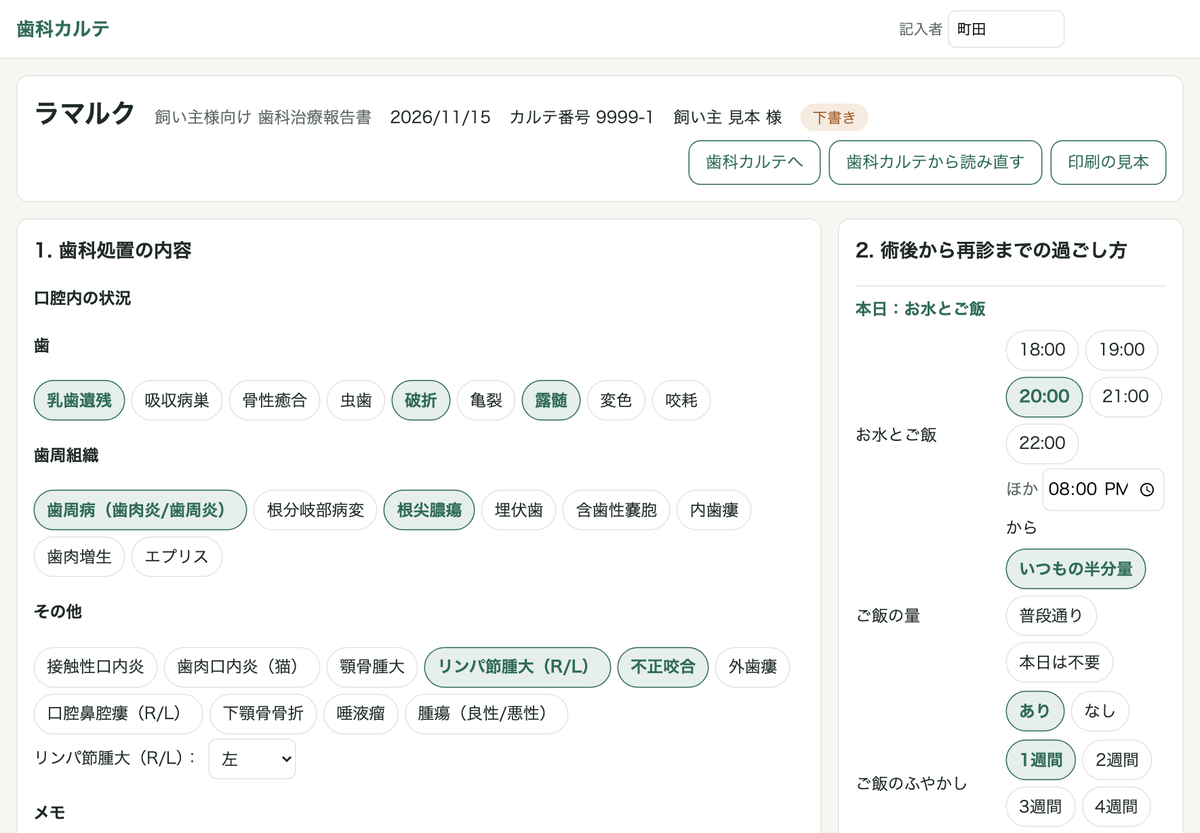
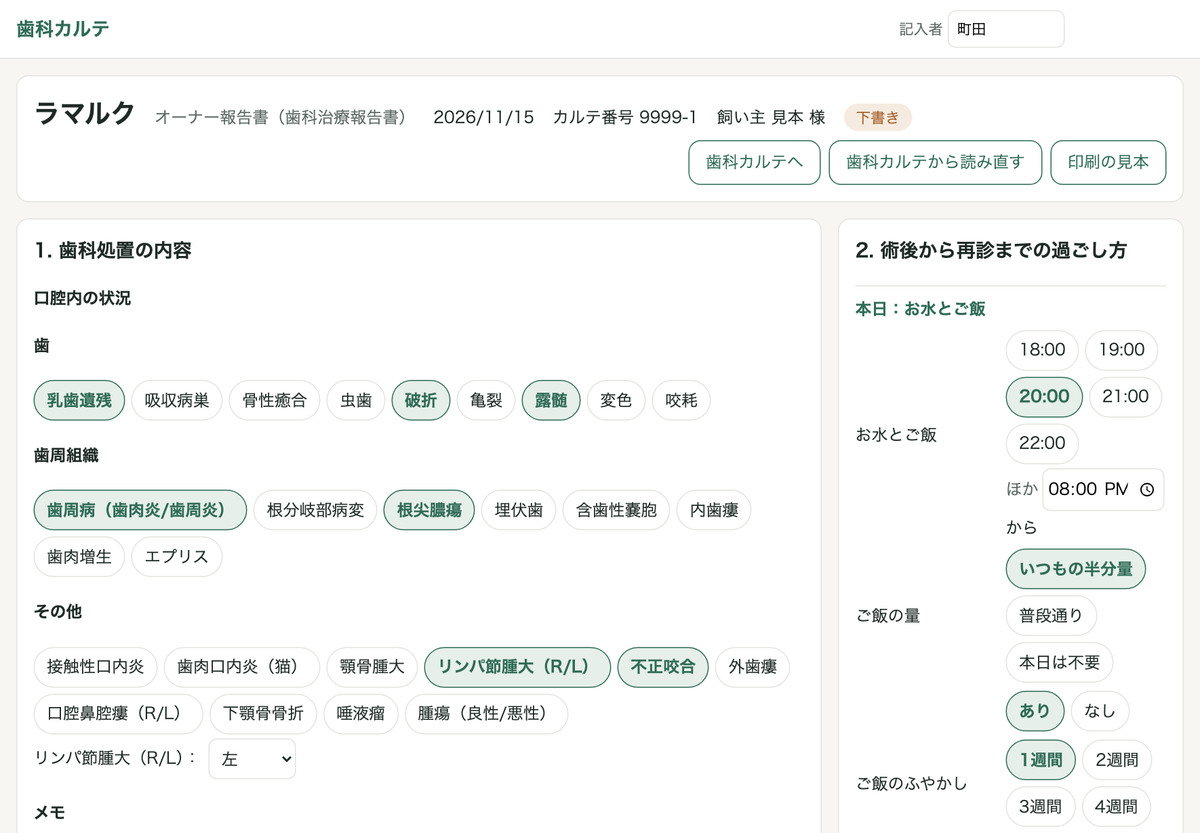
歯科カルテ：「オーナー報告書」の名前・指針書の印刷（案B）の説明・スクショ撮り直し

Changed region(s): [[0.1233, 0.1248, 0.7708, 0.1561]]

diff --git a/dental-chart.html b/dental-chart.html
@@ -62,7 +62,7 @@
 
 <div class="card">
 <b>30秒まとめ</b><br>
-歯科の記録だけを書くアプリです。<b>VetLink の中にあった歯科カルテを、独立したアプリにしました</b>（2026-11-15〜）。予約から<b>今日の歯科</b>が自動で並び、開くと<b>歯の図・歯周の表・口と顎・模式図</b>に記録できます。飼い主様への<b>立ち会いの説明を録音</b>すると、報告書の文の下書きができます。最後に<b>飼い主様の報告書（両面1枚）</b>と<b>院内カルテ</b>を印刷します。
+歯科の記録だけを書くアプリです。<b>VetLink の中にあった歯科カルテを、独立したアプリにしました</b>（2026-11-15〜）。予約から<b>今日の歯科</b>が自動で並び、開くと<b>歯の図・歯周の表・口と顎・模式図</b>に記録できます。飼い主様への<b>立ち会いの説明を録音</b>すると、報告書の文の下書きができます。最後に<b>オーナー報告書（両面1枚）</b>と<b>院内カルテ</b>を印刷します。
 <div style="margin-top:8px">
 <span class="badge b-vet">獣医師・動物看護師が使う画面です</span>
 <span class="badge b-auto">緑 = 自動（予約・AI）</span>
@@ -95,7 +95,7 @@
 <div class="fbox vet"><b>お迎えのときの説明を録音</b>（任意）</div><div class="farrow">↓</div>
 <div class="fbox auto"><b>文字にして、まとめの下書きを作る</b>話していないことは書きません。</div><div class="farrow">↓</div>
 <div class="fbox vet"><b>下書きを直して確定 →「確定する」</b></div><div class="farrow">↓</div>
-<div class="fbox vet"><b>飼い主様の報告書を印刷（両面）・院内カルテを印刷</b></div>
+<div class="fbox vet"><b>オーナー報告書を印刷（両面）・院内カルテを印刷</b></div>
 </div>
 <h3>2.2 カルテの画面のタブ</h3>
 <table>
@@ -185,12 +185,12 @@
 </ul>
 </div>
 
-<h2>8. 飼い主様の報告書</h2>
+<h2>8. オーナー報告書（飼い主様の報告書）</h2>
 <div class="card">
 <h3>8.1 入力</h3>
 <img class="shot" src="dental-chart-report.png" alt="報告書の入力画面">
 <ul>
-<li>カルテの<b>「飼い主様の報告書」</b>から開きます。<b>口腔内の状況・検査・治療内容は歯科カルテから自動で入ります</b>。カルテを直したら<b>「歯科カルテから読み直す」</b>。</li>
+<li>カルテの<b>「オーナー報告書」</b>から開きます。<b>口腔内の状況・検査・治療内容は歯科カルテから自動で入ります</b>。カルテを直したら<b>「歯科カルテから読み直す」</b>。</li>
 <li><b>過ごし方</b>は押すだけ：お水とご飯の時刻（18:00〜22:00）・ご飯の量・ふやかし・エリザベスカラー・歯みがきを始める目安。</li>
 <li><b>次回の来院</b>は目安（1週間後〜半年後）を押すと、処置日から日にちが自動で入ります。休診日などは直してください。</li>
 <li>「明日以降」の説明と緊急受診の目安は、犬・猫や処置の内容に合わせて自動で出ます。</li>
@@ -207,7 +207,7 @@
 <div class="card">
 <ul>
 <li><b>院内カルテの印刷</b>＝カルテの上の「院内カルテの印刷」から。歯の図・歯周・口と顎・模式図・説明まで、A4縦で何枚でも出ます。<b>確定前の来院は、その旨が出ます。</b></li>
-<li><b>歯科治療指針書（初診）</b>＝患者さんの記録の画面の<b>「指針書を作る」</b>から。疑われる口腔内疾患・抜歯の方針・当日の連絡の希望を入れ、「印刷の見本」から印刷します。状態（下書き／お渡し待ち／印刷済み／お渡し済み／要確認）を付けられます。</li>
+<li><b>歯科治療指針書（初診）</b>＝患者さんの記録の画面の<b>「指針書を作る」</b>から。疑われる口腔内疾患・抜歯の方針・当日の連絡の希望を入れ、「印刷の見本」から印刷します（A4 1枚・オーナー報告書と同じ見た目。抜歯の方針は3つの選択肢を全部並べ、選んだものに緑のチェック）。状態（下書き／お渡し待ち／印刷済み／お渡し済み／要確認）を付けられます。</li>
 </ul>
 <img class="shot" src="dental-chart-guideline.png" alt="歯科治療指針書の画面">
 </div>
